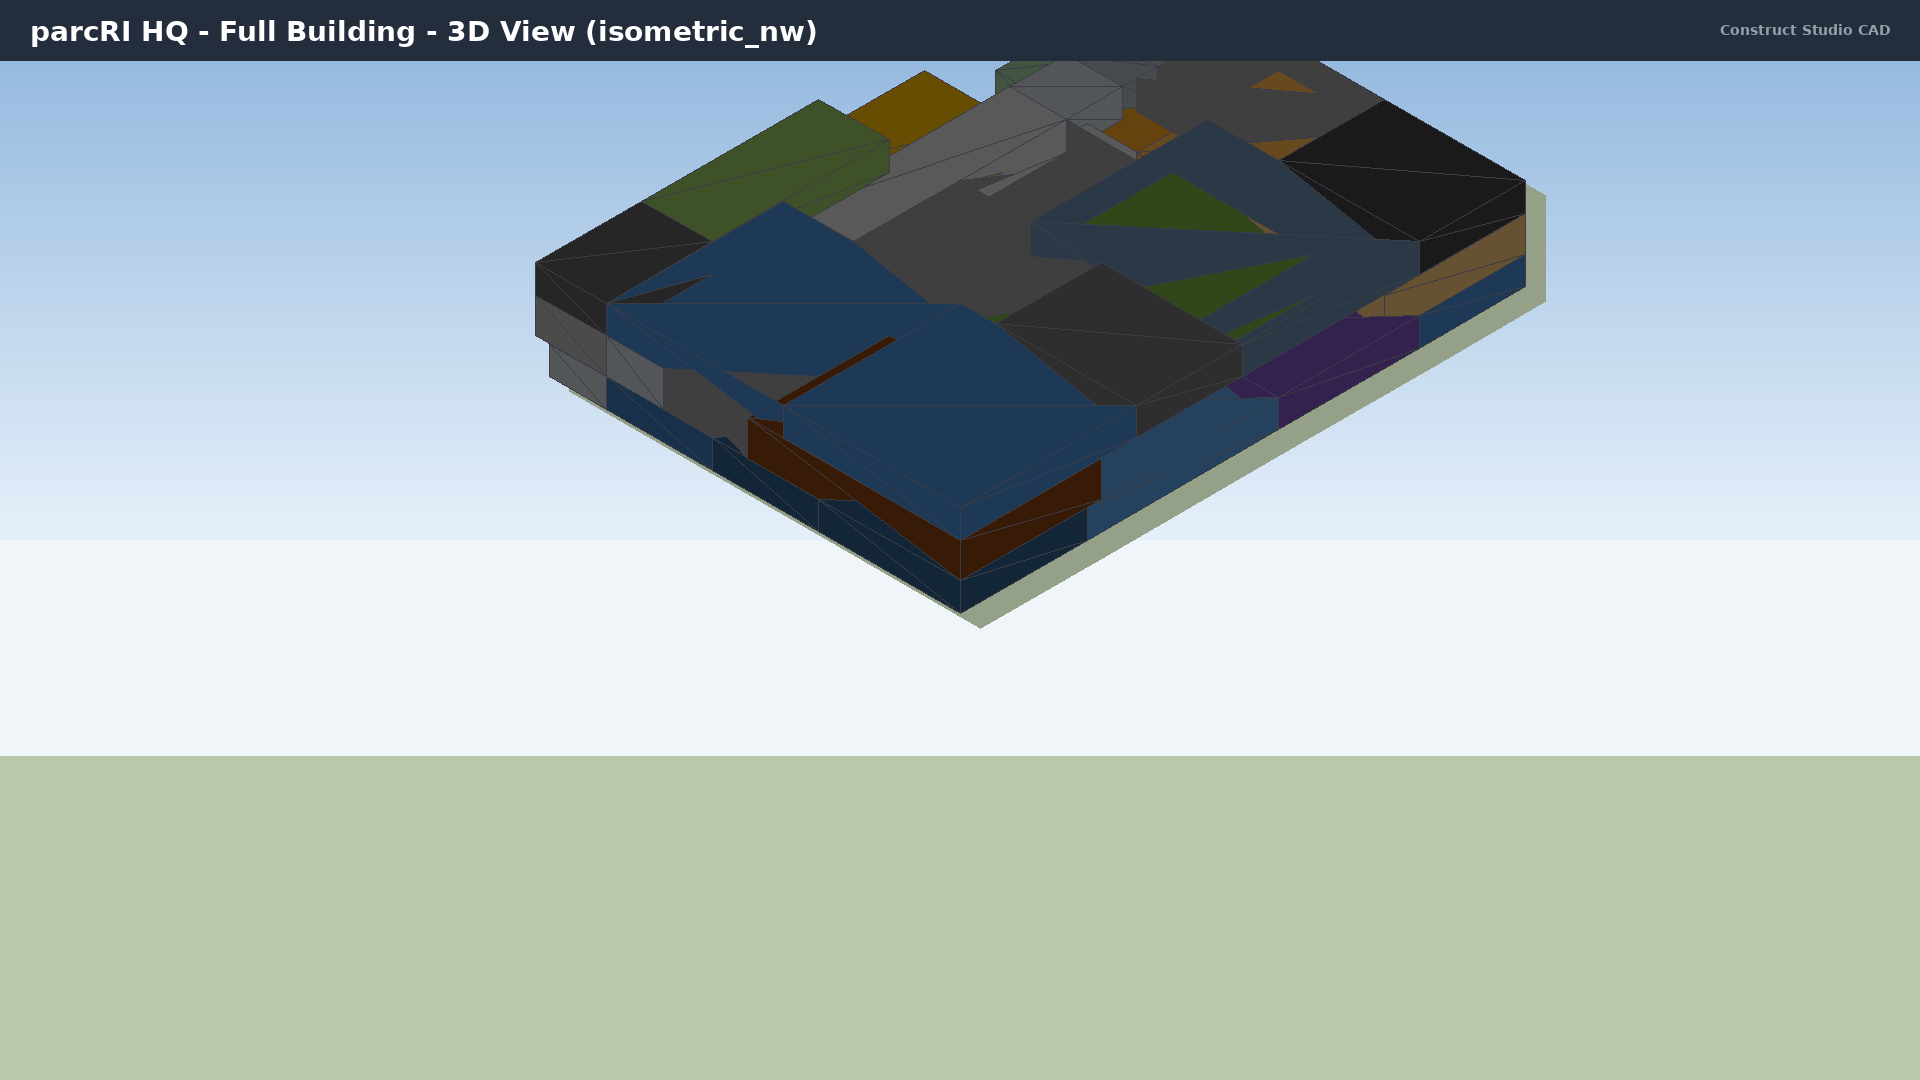
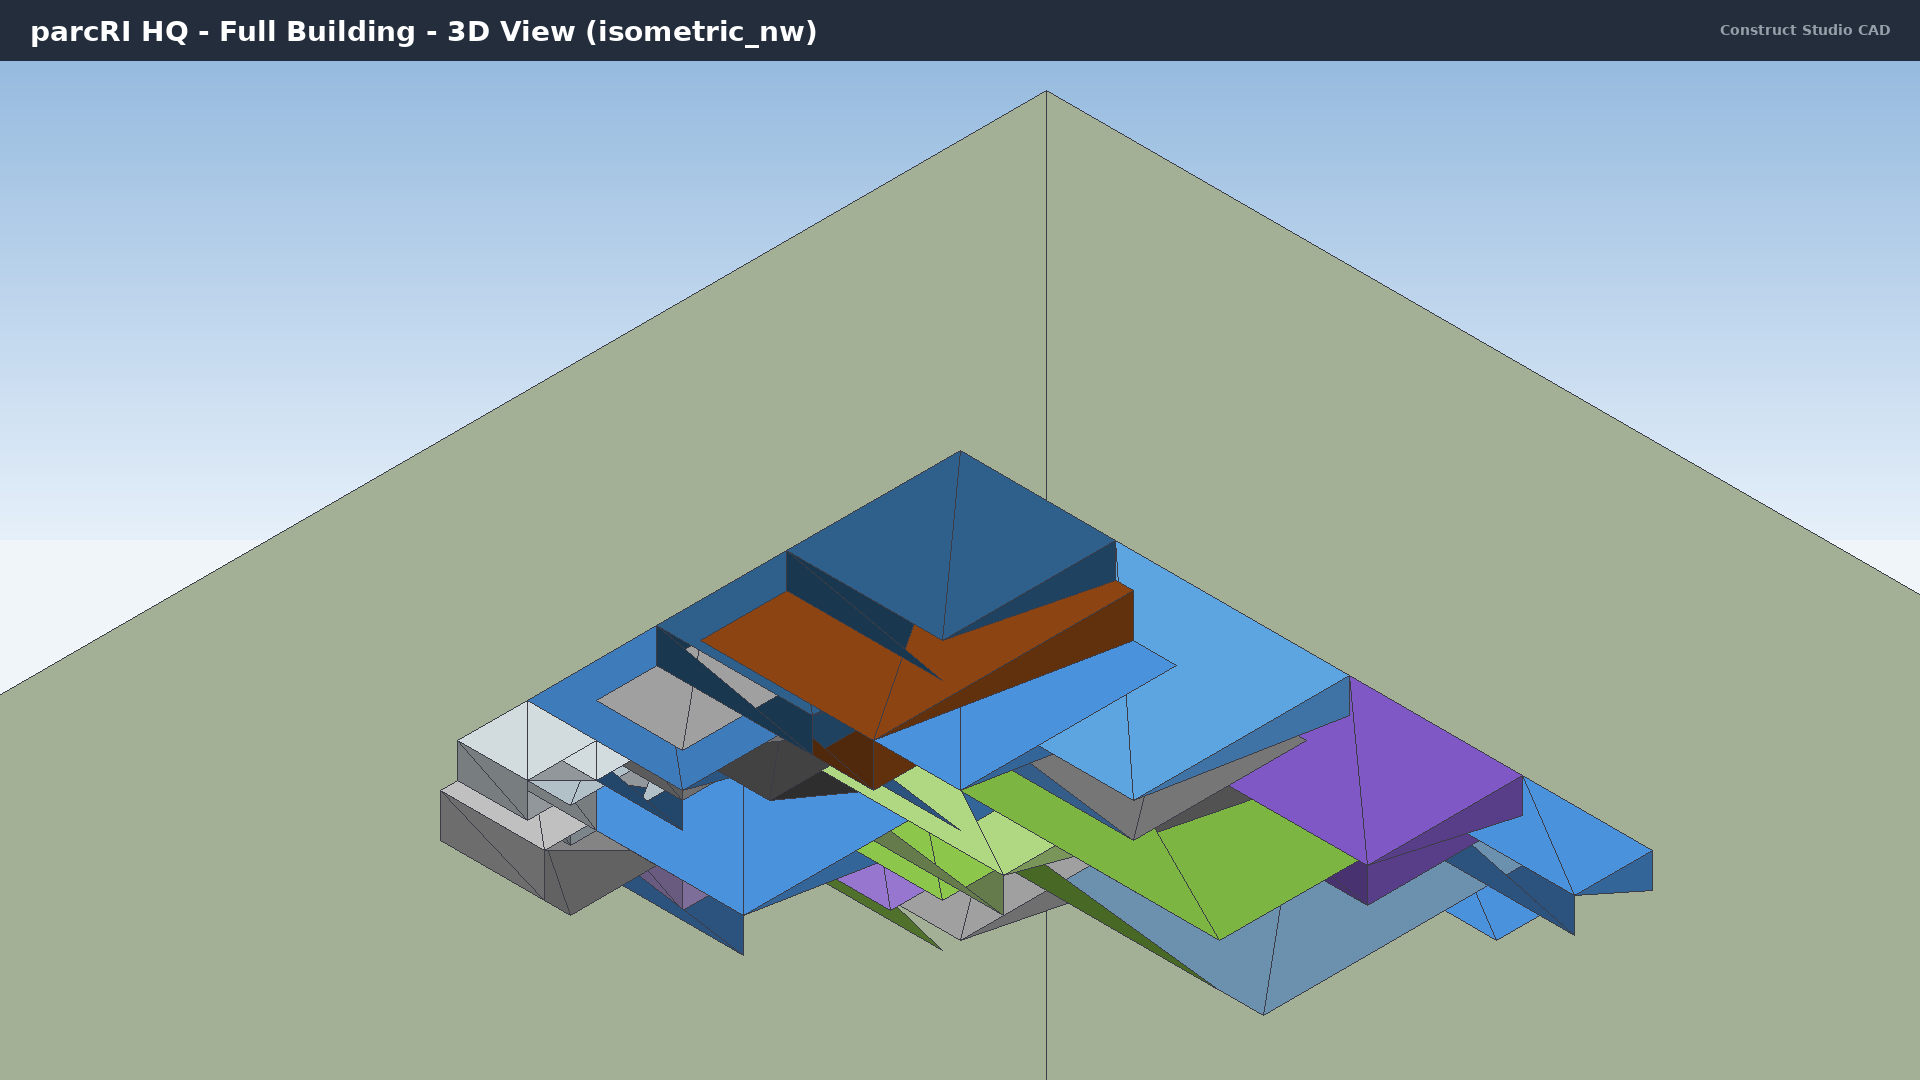
fix(cad): Fix isometric projection to properly ground buildings
Replace complex trig-based isometric projection with standard 2D
isometric formula that correctly maps Z (height) to screen Y:

  screen_x = (x - y) * scale * 0.866
  screen_y = (x + y) * scale * 0.5 - z * scale

This ensures:
- Objects at z=0 sit directly on the ground plane
- Higher z = higher on screen (proper vertical positioning)
- Buildings no longer float in air above the ground

The "Floor of Newton" is now literally grounded.

diff --git a/construct-studio/cad/renderer3d.py b/construct-studio/cad/renderer3d.py
@@ -237,30 +237,41 @@ class Renderer3D:
         )
 
     def project(self, point: Vec3) -> Tuple[float, float, float]:
-        """Project 3D point to 2D screen coordinates."""
+        """Project 3D point to 2D screen coordinates.
+
+        Uses standard 2D isometric projection formula:
+        - screen_x = (x - y) * scale
+        - screen_y = (x + y) / 2 * scale - z * scale
+
+        This maps the 3D world where:
+        - X/Y are horizontal floor plane axes
+        - Z is vertical (up)
+
+        To 2D screen where:
+        - Higher Z = higher on screen (smaller screen_y)
+        - Objects at z=0 sit on the ground plane
+        """
         cfg = self.config
         cx = cfg.width / 2
         cy = cfg.height / 2
 
         if cfg.projection == ProjectionType.ISOMETRIC:
-            # Isometric projection
-            # Rotate 45° around Z, then ~35.264° tilt
-            angle = math.radians(45)
-            tilt = math.radians(35.264)
+            # Standard 2D isometric projection
+            # This is the classic game/CAD isometric formula
 
-            # Rotate around Z
-            rx = point.x * math.cos(angle) - point.y * math.sin(angle)
-            ry = point.x * math.sin(angle) + point.y * math.cos(angle)
-            rz = point.z
+            # Screen X: diagonal based on world x and y
+            screen_x = (point.x - point.y) * cfg.scale * 0.866  # cos(30°)
 
-            # Apply tilt
-            screen_x = rx * cfg.scale
-            screen_y = (ry * math.sin(tilt) - rz * math.cos(tilt)) * cfg.scale
+            # Screen Y: combination of x+y (depth on floor) minus z (height)
+            # The 0.5 factor creates the isometric angle
+            # Z directly affects vertical screen position
+            screen_y = (point.x + point.y) * cfg.scale * 0.5 - point.z * cfg.scale
 
-            # Depth for sorting (further = more negative)
-            depth = ry * math.cos(tilt) + rz * math.sin(tilt)
+            # Depth for painter's algorithm sorting
+            # Objects further from camera (higher x+y, lower z) render first
+            depth = point.x + point.y - point.z * 2
 
-            return (cx + screen_x, cy - screen_y, depth)
+            return (cx + screen_x, cy + screen_y, depth)
 
         elif cfg.projection == ProjectionType.PERSPECTIVE:
             if not self.camera:
